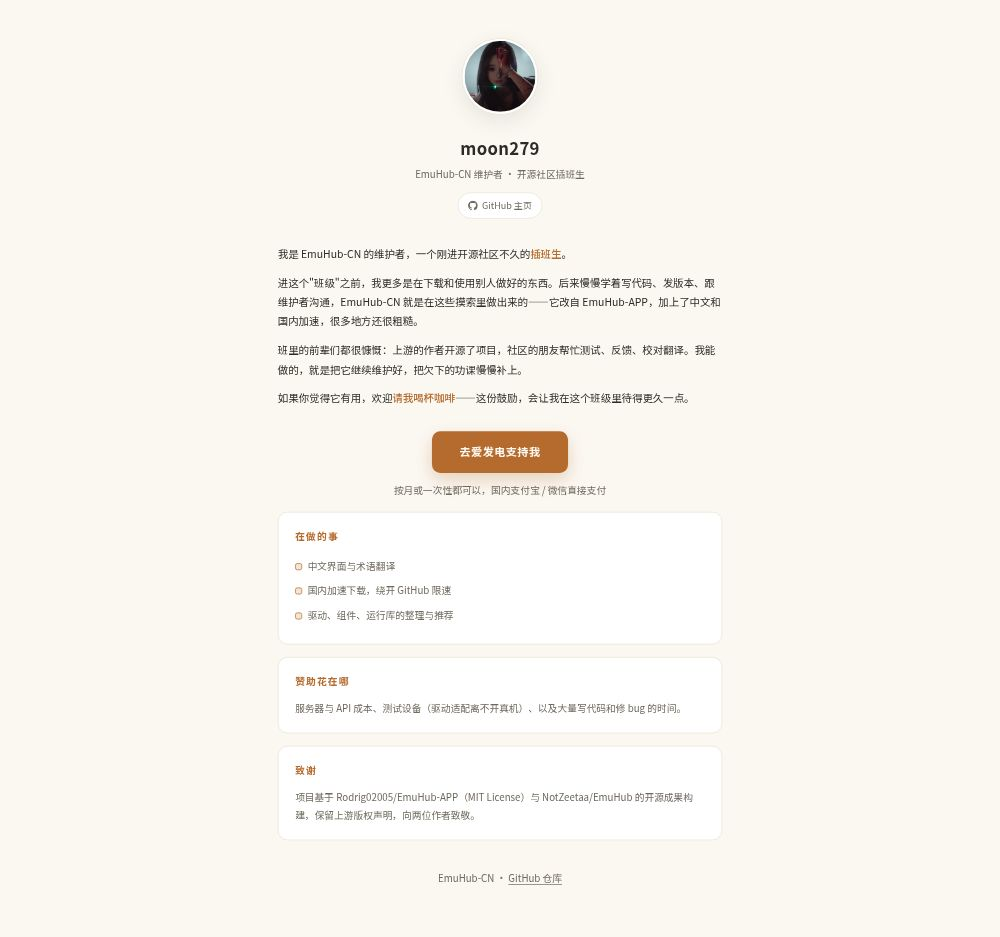
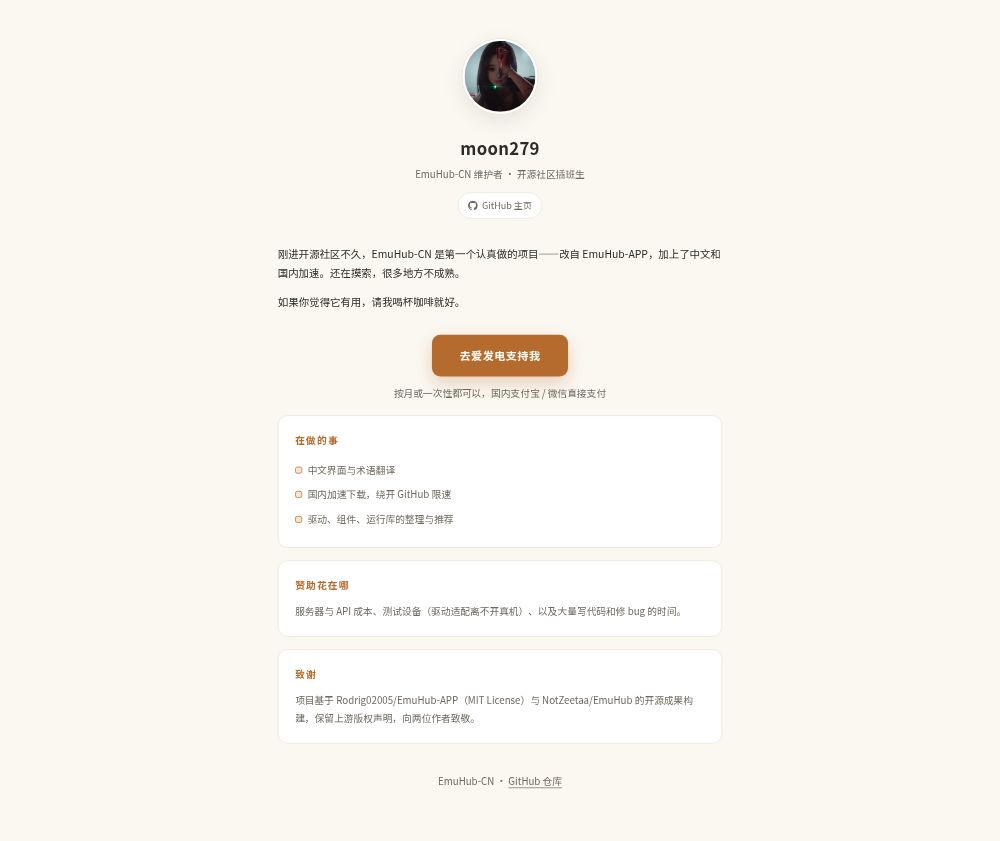
style: 赞助页自述压缩为两句话，去掉多余独白

diff --git a/docs/sponsor.html b/docs/sponsor.html
@@ -120,10 +120,8 @@
   </div>
 
   <div class="monologue">
-    <p>我是 EmuHub-CN 的维护者，一个刚进开源社区不久的<em>插班生</em>。</p>
-    <p>进这个"班级"之前，我更多是在下载和使用别人做好的东西。后来慢慢学着写代码、发版本、跟维护者沟通，EmuHub-CN 就是在这些摸索里做出来的——它改自 EmuHub-APP，加上了中文和国内加速，很多地方还很粗糙。</p>
-    <p>班里的前辈们都很慷慨：上游的作者开源了项目，社区的朋友帮忙测试、反馈、校对翻译。我能做的，就是把它继续维护好，把欠下的功课慢慢补上。</p>
-    <p>如果你觉得它有用，欢迎<em>请我喝杯咖啡</em>——这份鼓励，会让我在这个班级里待得更久一点。</p>
+    <p>刚进开源社区不久，EmuHub-CN 是第一个认真做的项目——改自 EmuHub-APP，加上了中文和国内加速。还在摸索，很多地方不成熟。</p>
+    <p>如果你觉得它有用，请我喝杯咖啡就好。</p>
   </div>
 
   <div class="cta">
